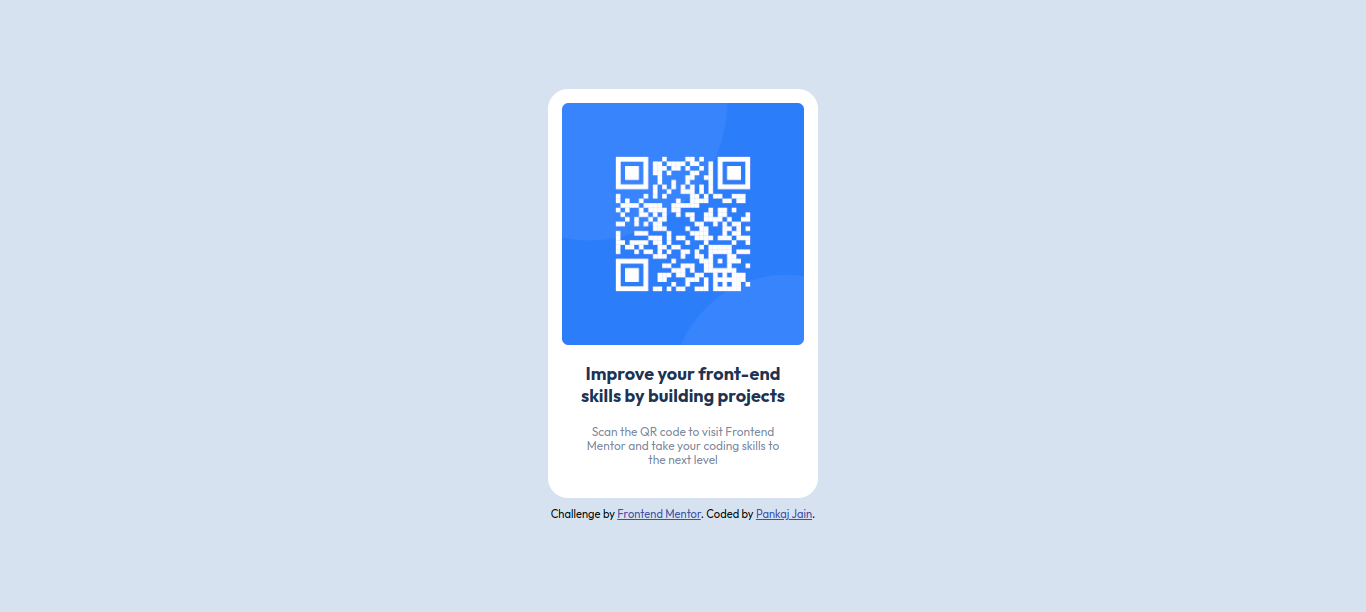
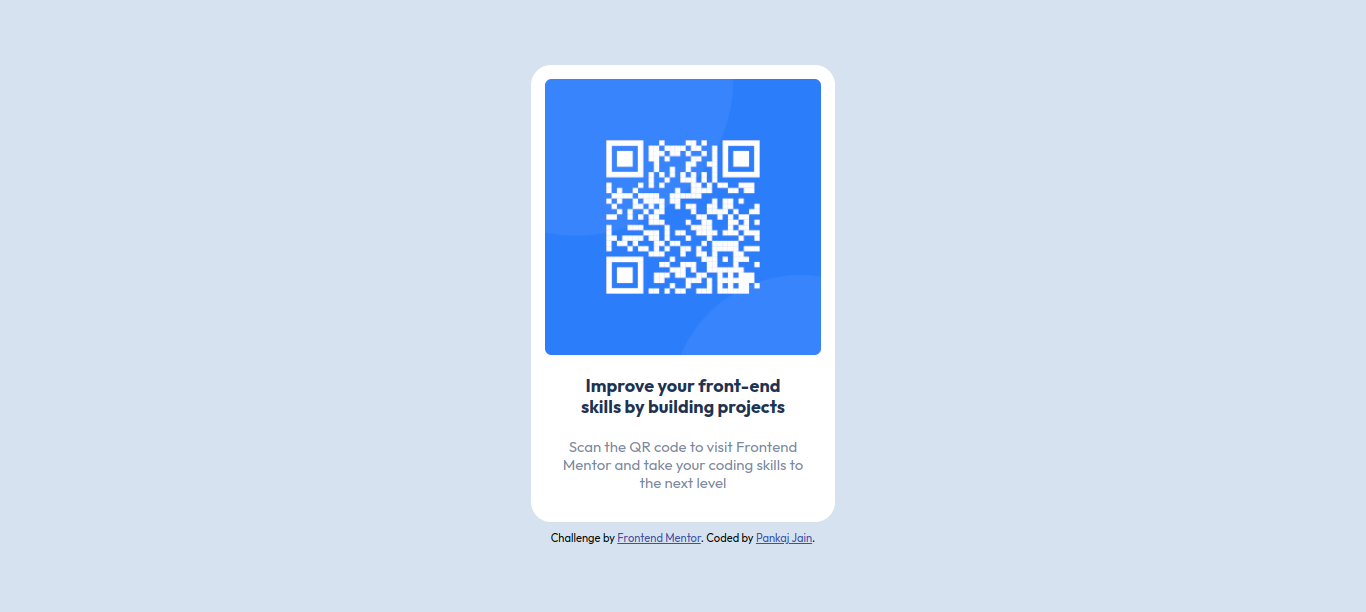
This commit will update the font-size and remove the section tag

Changed region(s): [[0.369, 0.0931, 0.6149, 0.9003]]

diff --git a/index.html b/index.html
@@ -12,12 +12,10 @@
 
 <body>
   <main class="card">
-    <img class="card__qr-code" src="./images/image-qr-code.png" alt="Scan to visit Frontend Mentor" />
-    <section>
-      <h1 class="card__heading">Improve your front-end skills by building projects</h1>
-      <p class="card__description">Scan the QR code to visit Frontend Mentor and take your coding skills to the next
-        level</p>
-    </section>
+    <img class="card__qr-code" src="./images/image-qr-code.png" alt="QR code to visit Frontend Mentor" />
+    <h1 class="card__heading">Improve your front-end skills by building projects</h1>
+    <p class="card__description">Scan the QR code to visit Frontend Mentor and take your coding skills to the next
+      level</p>
   </main>
   <footer class="attribution">
     Challenge by <a href="https://www.frontendmentor.io?ref=challenge" target="_blank">Frontend Mentor</a>.

diff --git a/style.css b/style.css
@@ -72,7 +72,7 @@ body {
 
 .card {
     background: var(--white);
-    max-width: 16.875rem;
+    max-width: 19rem;
     padding: 0.9rem;
     border-radius: 1.25rem;
     line-height: 1.2;
@@ -87,13 +87,13 @@ body {
     font-size: 1.125rem;
     font-weight: 700;
     text-align: center;
-    padding: 1.15rem;
+    padding: 1.25rem;
 }
 
 .card__description {
     color: var(--grayish-blue);
     font-weight: 400;
-    font-size: 0.75rem;
+    font-size: 0.9375rem;
     text-align: center;
     padding: 0 1rem 1rem;
 }
